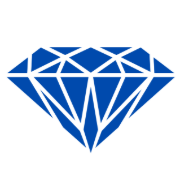
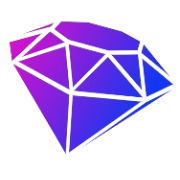
commit

diff --git a/src/app/layout.tsx b/src/app/layout.tsx
@@ -9,12 +9,12 @@ import { SpeedInsights } from "@vercel/speed-insights/next";
 import { Analytics } from "@vercel/analytics/next"
 // Every other data-facing module in this codebase (newsletter service, email
 // templates, blog metadata) resolves the canonical origin from
-// NEXT_PUBLIC_SITE_URL and falls back to https://alphagemstone-official-two.vercel.app/. The old
+// NEXT_PUBLIC_SITE_URL and falls back to https://www.alphagemstone.com/. The old
 // hardcoded gmstone-new-2026.vercel.app preview URL here meant canonical
 // links, Open Graph tags, and JSON-LD were all pointing search engines at a
 // staging deployment instead of the real production domain — fixed below.
 export const BASE_URL =
-  process.env.NEXT_PUBLIC_SITE_URL || "https://alphagemstone-official-two.vercel.app/";
+  process.env.NEXT_PUBLIC_SITE_URL || "https://www.alphagemstone.com";
 
 const SITE_NAME = "Alpha Imports";
 const OG_IMAGE = `${BASE_URL}/og-image.png`;